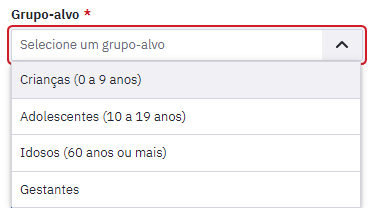
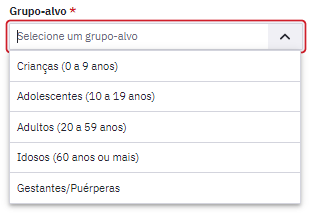
atualização busca ativa 5.3

Changed region(s): [[0.0, 0.0288, 1.0, 1.0]]

diff --git a/docs/PEC/PEC_11_busca_ativa.md b/docs/PEC/PEC_11_busca_ativa.md
@@ -57,7 +57,7 @@ Figura 11.3 - Tipos de Visualização
 
 Fonte: SAPS/MS.
 
-Em seguida há o campo obrigatório Grupo-Alvo em que podem ser selecionadas as opções Criança (0 a 9 anos), Adolescentes (10 a 19 anos) e Gestantes como mostra a Figura 11.4. No grupo gestantes ficam gestantes e puérperas.
+Em seguida há o campo obrigatório Grupo-Alvo em que podem ser selecionadas as opções Criança (0 a 9 anos), Adolescentes (10 a 19 anos), Adultos (20 a 59 anos), Idosos (60 anos ou mais) e Gestantes/Puéperas como mostra a Figura 11.4. 
 
 Figura 11.4 - Grupos Alvo
 
@@ -67,7 +67,7 @@ Fonte: SAPS/MS.
 
 
 {: .nota }
-Novos grupos alvo serão inseridos em novas versões do PEC.
+Os grupos Adultos e Gestantes/Puérperas foram inseridos na versão 5.3 do PEC.
 
 No campo obrigatório "Status da Vacina", quando o Tipo de visualização (Figura 11.3) selecionado é o "Calendário Vacinal", é possível escolher entre No Prazo e Atrasada, conforme mostra a Figura 11.5. Já quando o Tipo de visualização selecionado é Covid-19, aparecerão as vacinas aplicadas. 
 
@@ -83,7 +83,7 @@ Os Status de vacina significam:
 
 **Atrasada:** São as doses de vacinas que já passaram do prazo para ser aplicadas. Deve-se convidar o cidadão para regularizar sua situação vacinal o mais rápido possível.
 
-Há disponível alguns Filtros avançados nesse módulo, conforme mostra a Figura 11.6. 
+Há disponível alguns Filtros avançados nesse módulo,  os quais foram inseridos na versão 5.3. Os filtros avançados são: Imunobiológico, Dose, Tipo de Logradouro, Logradouro e Bairro de residência do cidadão. Também foi inclusa a regra de Identidade de gênero nos relatóriosconforme mostra a Figura 11.6.
 
 Figura 11.6 - Filtros Avançados
 
